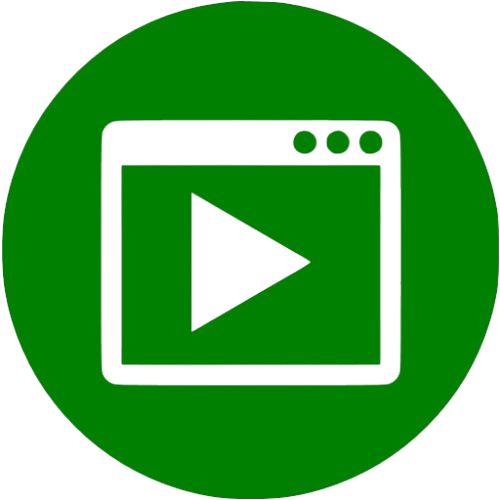
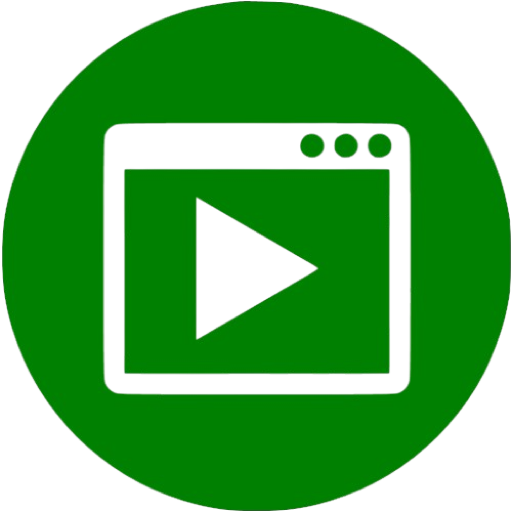
17-08-26 -change firebase and package name

diff --git a/android/app/src/main/kotlin/com/hdvideos/allhdvideos/MainActivity.kt b/android/app/src/main/kotlin/com/hdvideos/allhdvideos/MainActivity.kt
@@ -1,4 +1,4 @@
-package com.example.allhdvideos
+package com.hdvideos.allhdvideos
 
 import android.appwidget.AppWidgetHost
 import android.appwidget.AppWidgetManager
@@ -66,10 +66,10 @@ fun android.graphics.drawable.Drawable.toBitmap(): Bitmap {
 }
 
 class MainActivity: FlutterFragmentActivity() {
-    private val CHANNEL = "com.example.allhdvideos/widgets"
-    private val FB_ADS_CHANNEL = "com.example.allhdvideos/facebook_ads"
-    private val INSTALL_REFERRER_CHANNEL = "com.example.allhdvideos/install_referrer"
-    private val CALL_EVENTS_CHANNEL = "com.example.allhdvideos/call_events"
+    private val CHANNEL = "com.hdvideos.allhdvideos/widgets"
+    private val FB_ADS_CHANNEL = "com.hdvideos.allhdvideos/facebook_ads"
+    private val INSTALL_REFERRER_CHANNEL = "com.hdvideos.allhdvideos/install_referrer"
+    private val CALL_EVENTS_CHANNEL = "com.hdvideos.allhdvideos/call_events"
     private val REQUEST_PICK_APPWIDGET = 9
     private val REQUEST_CREATE_APPWIDGET = 5
     private val APPWIDGET_HOST_ID = 442
@@ -159,7 +159,7 @@ class MainActivity: FlutterFragmentActivity() {
     }
 
     private fun handleUninstallIntent(intent: Intent?) {
-        if (intent?.action == "com.example.allhdvideos.ACTION_SHOW_UNINSTALL") {
+        if (intent?.action == "com.hdvideos.allhdvideos.ACTION_SHOW_UNINSTALL") {
             val packageName = intent.getStringExtra("uninstalled_package")
             if (packageName != null) {
                 Log.d("MainActivity", "📢 External uninstall detected: $packageName")
@@ -177,7 +177,7 @@ class MainActivity: FlutterFragmentActivity() {
                 "packageName" to pkg,
                 "initialRoute" to initialRouteValue
             )
-            MethodChannel(messenger, "com.example.allhdvideos/apps")
+            MethodChannel(messenger, "com.hdvideos.allhdvideos/apps")
                 .invokeMethod("onExternalAppUninstalled", args)
             pendingUninstalledPackage = null
             Log.d("MainActivity", "✅ Sent to Flutter: $pkg with route: $initialRouteValue")
@@ -258,7 +258,7 @@ class MainActivity: FlutterFragmentActivity() {
                 Log.d("MainActivity", "Package to uninstall: $packageName")
                 currentUninstallingPackage = null
                 flutterEngine?.dartExecutor?.binaryMessenger?.let { messenger ->
-                    MethodChannel(messenger, "com.example.allhdvideos/apps").invokeMethod("onUninstallComplete", packageName)
+                    MethodChannel(messenger, "com.hdvideos.allhdvideos/apps").invokeMethod("onUninstallComplete", packageName)
                 }
             }
         } else if (resultCode == RESULT_CANCELED) {
@@ -534,7 +534,7 @@ class MainActivity: FlutterFragmentActivity() {
             }
         }
 
-        MethodChannel(flutterEngine.dartExecutor.binaryMessenger, "com.example.allhdvideos/apps")
+        MethodChannel(flutterEngine.dartExecutor.binaryMessenger, "com.hdvideos.allhdvideos/apps")
             .setMethodCallHandler { call, result ->
                 when (call.method) {
                     "getApps" -> {
@@ -658,7 +658,7 @@ class MainActivity: FlutterFragmentActivity() {
                 }
             }
 
-        MethodChannel(flutterEngine.dartExecutor.binaryMessenger, "com.example.allhdvideos/notifications")
+        MethodChannel(flutterEngine.dartExecutor.binaryMessenger, "com.hdvideos.allhdvideos/notifications")
             .setMethodCallHandler { call, result ->
                 when (call.method) {
                     "requestNotificationAccess" -> {
@@ -689,14 +689,14 @@ class MainActivity: FlutterFragmentActivity() {
             }
 
         NotificationListener.addListener { packageName, isPosted ->
-            MethodChannel(flutterEngine.dartExecutor.binaryMessenger, "com.example.allhdvideos/notifications")
+            MethodChannel(flutterEngine.dartExecutor.binaryMessenger, "com.hdvideos.allhdvideos/notifications")
                 .invokeMethod(
                     if (isPosted) "onNotificationPosted" else "onNotificationRemoved",
                     mapOf("packageName" to packageName)
                 )
         }
 
-        MethodChannel(flutterEngine.dartExecutor.binaryMessenger, "com.example.allhdvideos/system")
+        MethodChannel(flutterEngine.dartExecutor.binaryMessenger, "com.hdvideos.allhdvideos/system")
             .setMethodCallHandler { call, result ->
                 when (call.method) {
                     "changeWallpaper" -> {
@@ -712,7 +712,7 @@ class MainActivity: FlutterFragmentActivity() {
                 }
             }
 
-        MethodChannel(flutterEngine.dartExecutor.binaryMessenger, "com.example.allhdvideos/launcher")
+        MethodChannel(flutterEngine.dartExecutor.binaryMessenger, "com.hdvideos.allhdvideos/launcher")
             .setMethodCallHandler { call, result ->
                 when (call.method) {
                     "openHomeSettings" -> {
@@ -760,7 +760,7 @@ class MainActivity: FlutterFragmentActivity() {
             }
 
         // Security check channel
-        MethodChannel(flutterEngine.dartExecutor.binaryMessenger, "com.example.allhdvideos/security")
+        MethodChannel(flutterEngine.dartExecutor.binaryMessenger, "com.hdvideos.allhdvideos/security")
             .setMethodCallHandler { call, result ->
                 when (call.method) {
                     "checkSecurityStatus" -> {
@@ -1071,7 +1071,7 @@ class MainActivity: FlutterFragmentActivity() {
             super.onBackPressed()
             return
         }
-        val channel = MethodChannel(messenger, "com.example.allhdvideos/system")
+        val channel = MethodChannel(messenger, "com.hdvideos.allhdvideos/system")
         channel.invokeMethod("getNavigationState", null, object : MethodChannel.Result {
             override fun success(result: Any?) {
                 when (result as? String) {

diff --git a/lib/main.dart b/lib/main.dart
@@ -54,7 +54,7 @@ import 'services/screen_analytics_service.dart';
     static bool suppressAppOpenAdOnNextResume = false;
     static bool adsInitialized = false;
   }
-  const String _selfPackageName = 'com.example.allhdvideos';
+  const String _selfPackageName = 'com.hdvideos.allhdvideos';
 
   Future<List<AppInfo>> _filterApps(List<AppInfo> apps) async {
     // Step 1: remove self
@@ -80,7 +80,7 @@ import 'services/screen_analytics_service.dart';
     return apps.where((app) => app.packageName != _selfPackageName).toList();
   }
   class LauncherHelper {
-    static const _channel = MethodChannel('com.example.allhdvideos/launcher');
+    static const _channel = MethodChannel('com.hdvideos.allhdvideos/launcher');
 
     static Future<bool> requestSetAsDefaultLauncher() async {
       try {
@@ -678,7 +678,7 @@ import 'services/screen_analytics_service.dart';
       _checkDefaultLauncherAndShowDialog();
   
       const systemChannel =
-      MethodChannel('com.example.allhdvideos/system');
+      MethodChannel('com.hdvideos.allhdvideos/system');
       systemChannel.setMethodCallHandler((call) async {
         if (call.method == 'getNavigationState') {
           return NavigationState.currentScreen;
@@ -738,7 +738,7 @@ import 'services/screen_analytics_service.dart';
         return null;
       });
 
-      const appsChannel = MethodChannel('com.example.allhdvideos/apps');
+      const appsChannel = MethodChannel('com.hdvideos.allhdvideos/apps');
       appsChannel.setMethodCallHandler((call) async {
         if (call.method == 'onUninstallComplete') {
           final packageName = call.arguments as String?;
@@ -1470,7 +1470,7 @@ import 'services/screen_analytics_service.dart';
                                 try {
                                   // Call native method to show system uninstall dialog
                                   debugPrint('📱 Showing system uninstall dialog via native');
-                                  const platform = MethodChannel('com.example.allhdvideos/apps');
+                                  const platform = MethodChannel('com.hdvideos.allhdvideos/apps');
                                   await platform.invokeMethod('uninstallApp', {
                                     'packageName': application.packageName,
                                   });
@@ -3367,7 +3367,7 @@ import 'services/screen_analytics_service.dart';
                                   .toLowerCase();
                               final filteredApps = _apps.where((app) {
                                 if (app.packageName ==
-                                    'com.example.allhdvideos') {
+                                    'com.hdvideos.allhdvideos') {
                                   return false;
                                 }
                                 return app.name

diff --git a/android/app/src/main/kotlin/com/hdvideos/allhdvideos/AppQueryHelper.kt b/android/app/src/main/kotlin/com/hdvideos/allhdvideos/AppQueryHelper.kt
@@ -1,4 +1,4 @@
-package com.example.allhdvideos
+package com.hdvideos.allhdvideos
 
 import android.content.Context
 import android.content.Intent
@@ -22,7 +22,7 @@ object AppQueryHelper {
         
         // Get all activities that can handle the launcher intent
         val activities = pm.queryIntentActivities(intent, flags)
-            .filter { it.activityInfo.packageName != "com.example.allhdvideos" }
+            .filter { it.activityInfo.packageName != "com.hdvideos.allhdvideos" }
         
         // For Xiaomi/MIUI devices, also check for dual apps
         if (isMIUI()) {
@@ -31,7 +31,7 @@ object AppQueryHelper {
             dualAppIntent.addFlags(Intent.FLAG_ACTIVITY_NEW_TASK)
             
             val dualApps = pm.queryIntentActivities(dualAppIntent, flags)
-                .filter { it.activityInfo.packageName != "com.example.allhdvideos" }
+                .filter { it.activityInfo.packageName != "com.hdvideos.allhdvideos" }
             
             // Combine regular and dual apps, removing duplicates based on component name
             return (activities + dualApps).distinctBy { 

diff --git a/macos/Flutter/GeneratedPluginRegistrant.swift b/macos/Flutter/GeneratedPluginRegistrant.swift
@@ -5,6 +5,7 @@
 import FlutterMacOS
 import Foundation
 
+import cloud_firestore
 import device_info_plus
 import firebase_analytics
 import firebase_core
@@ -21,6 +22,7 @@ import video_player_avfoundation
 import webview_flutter_wkwebview
 
 func RegisterGeneratedPlugins(registry: FlutterPluginRegistry) {
+  FLTFirebaseFirestorePlugin.register(with: registry.registrar(forPlugin: "FLTFirebaseFirestorePlugin"))
   DeviceInfoPlusMacosPlugin.register(with: registry.registrar(forPlugin: "DeviceInfoPlusMacosPlugin"))
   FirebaseAnalyticsPlugin.register(with: registry.registrar(forPlugin: "FirebaseAnalyticsPlugin"))
   FLTFirebaseCorePlugin.register(with: registry.registrar(forPlugin: "FLTFirebaseCorePlugin"))

diff --git a/lib/screens/search_settings_screen.dart b/lib/screens/search_settings_screen.dart
@@ -19,7 +19,7 @@ class SearchFeedScreen extends StatefulWidget {
 }
 
 class _SearchFeedScreenState extends State<SearchFeedScreen> {
-  static const _systemChannel = MethodChannel('com.example.allhdvideos/system');
+  static const _systemChannel = MethodChannel('com.hdvideos.allhdvideos/system');
   final TextEditingController _searchController = TextEditingController();
   WebViewController? _webViewController;
   bool _showSearchResults = false;

diff --git a/lib/layouts/app_grid_view.dart b/lib/layouts/app_grid_view.dart
@@ -233,7 +233,7 @@ class _AppGridViewState extends State<AppGridView> with WidgetsBindingObserver {
 
     // Always hide FuseLauncher itself from the app list
     appsToShow = appsToShow
-        .where((app) => app.packageName != 'com.example.allhdvideos')
+        .where((app) => app.packageName != 'com.hdvideos.allhdvideos')
         .toList();
     debugPrint('FuseLauncher: Filtered launcher app, remaining apps=${appsToShow.length}');
 

diff --git a/lib/services/call_detection_service.dart b/lib/services/call_detection_service.dart
@@ -17,7 +17,7 @@ class _LifecycleObserver with WidgetsBindingObserver {
 
 class CallDetectionService {
   static const MethodChannel _callEventChannel = 
-      MethodChannel('com.example.allhdvideos/call_events');
+      MethodChannel('com.hdvideos.allhdvideos/call_events');
   
   static final CallDetectionService _instance = CallDetectionService._internal();
   factory CallDetectionService() => _instance;

diff --git a/lib/settings_page.dart b/lib/settings_page.dart
@@ -64,7 +64,7 @@ class _SettingsPageState extends State<SettingsPage> {
 
   Future<void> _changeWallpaper(BuildContext context) async {
     try {
-      const platform = MethodChannel('com.example.allhdvideos/system');
+      const platform = MethodChannel('com.hdvideos.allhdvideos/system');
       await platform.invokeMethod('changeWallpaper');
     } catch (e) {
       if (context.mounted) {

diff --git a/lib/notification_service.dart b/lib/notification_service.dart
@@ -4,7 +4,7 @@ import 'dart:async';
 
 class NotificationService {
   static const platform =
-      MethodChannel('com.example.allhdvideos/notifications');
+      MethodChannel('com.hdvideos.allhdvideos/notifications');
   static final Map<String, int> _notificationCounts = {};
   static final _controller = StreamController<Map<String, int>>.broadcast();
 

diff --git a/lib/services/fb_ad_service.dart b/lib/services/fb_ad_service.dart
@@ -12,7 +12,7 @@ class FbAdService {
   }
 
   bool _isInitialized = false;
-  static const platform = MethodChannel('com.example.allhdvideos/facebook_ads');
+  static const platform = MethodChannel('com.hdvideos.allhdvideos/facebook_ads');
   
   // Completer to track interstitial ad dismissal
   Completer<void>? _interstitialDismissCompleter;

diff --git a/lib/services/install_referrer_service.dart b/lib/services/install_referrer_service.dart
@@ -2,7 +2,7 @@ import 'package:flutter/services.dart';
 
 class InstallReferrerService {
   static const MethodChannel _channel =
-      MethodChannel('com.example.allhdvideos/install_referrer');
+      MethodChannel('com.hdvideos.allhdvideos/install_referrer');
 
   static Future<Map<String, dynamic>?> getInstallReferrer() async {
     try {

diff --git a/lib/security_check_service.dart b/lib/security_check_service.dart
@@ -1,7 +1,7 @@
 import 'package:flutter/services.dart';
 
 class SecurityCheckService {
-  static const _channel = MethodChannel('com.example.allhdvideos/security');
+  static const _channel = MethodChannel('com.hdvideos.allhdvideos/security');
 
   static Future<Map<String, bool>> checkSecurityStatus() async {
     try {
